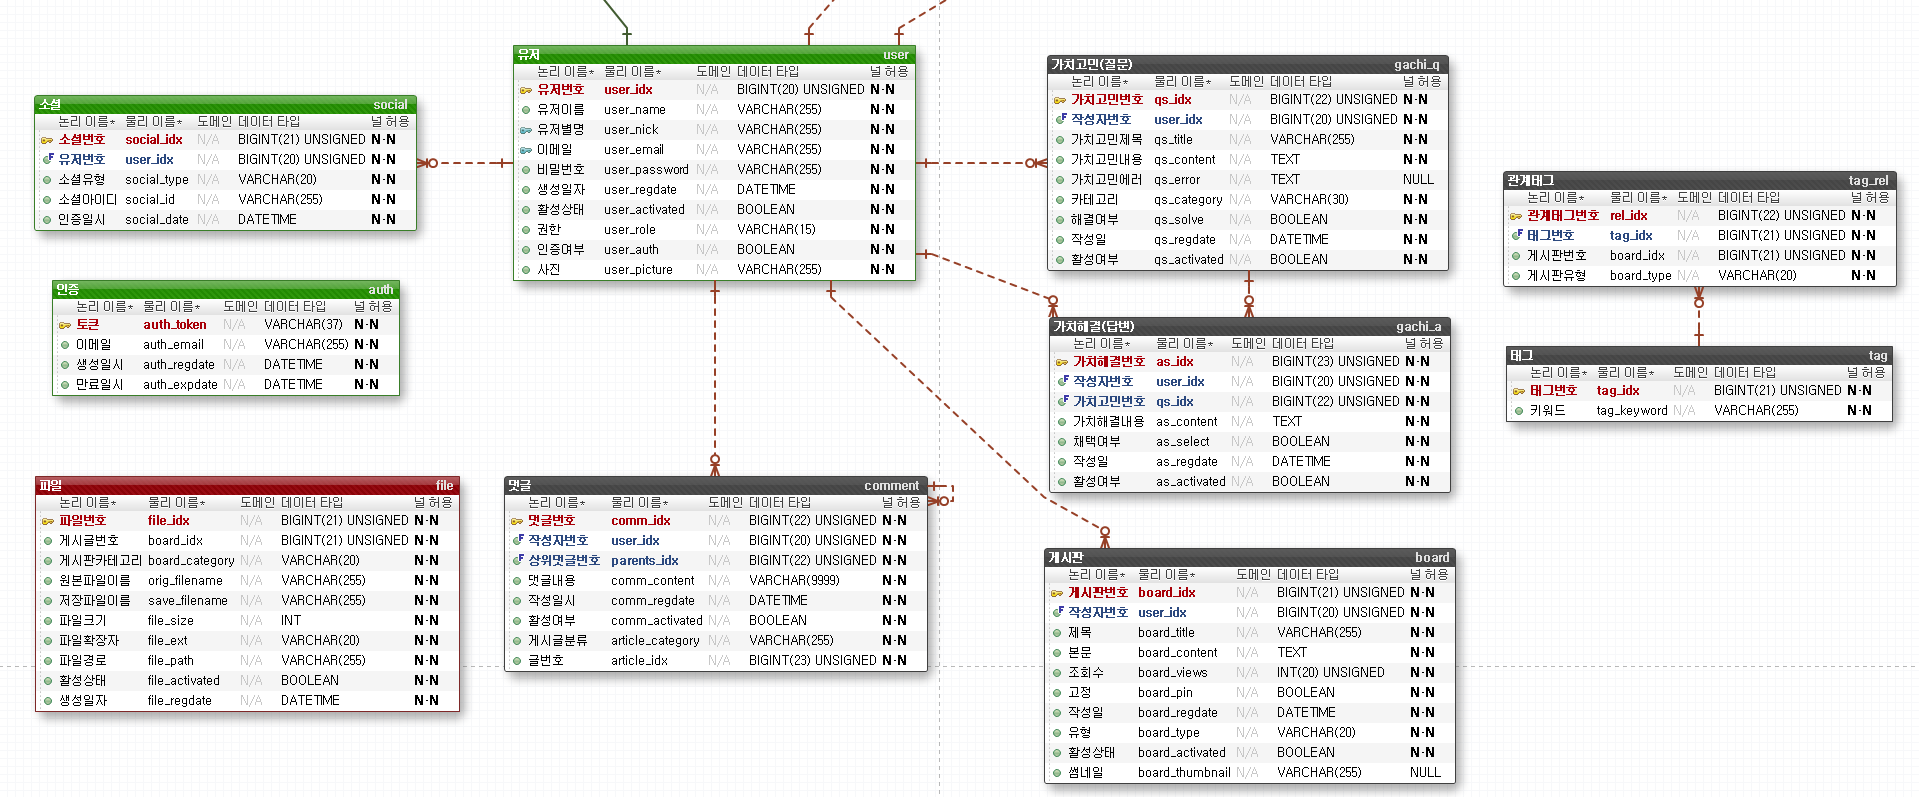
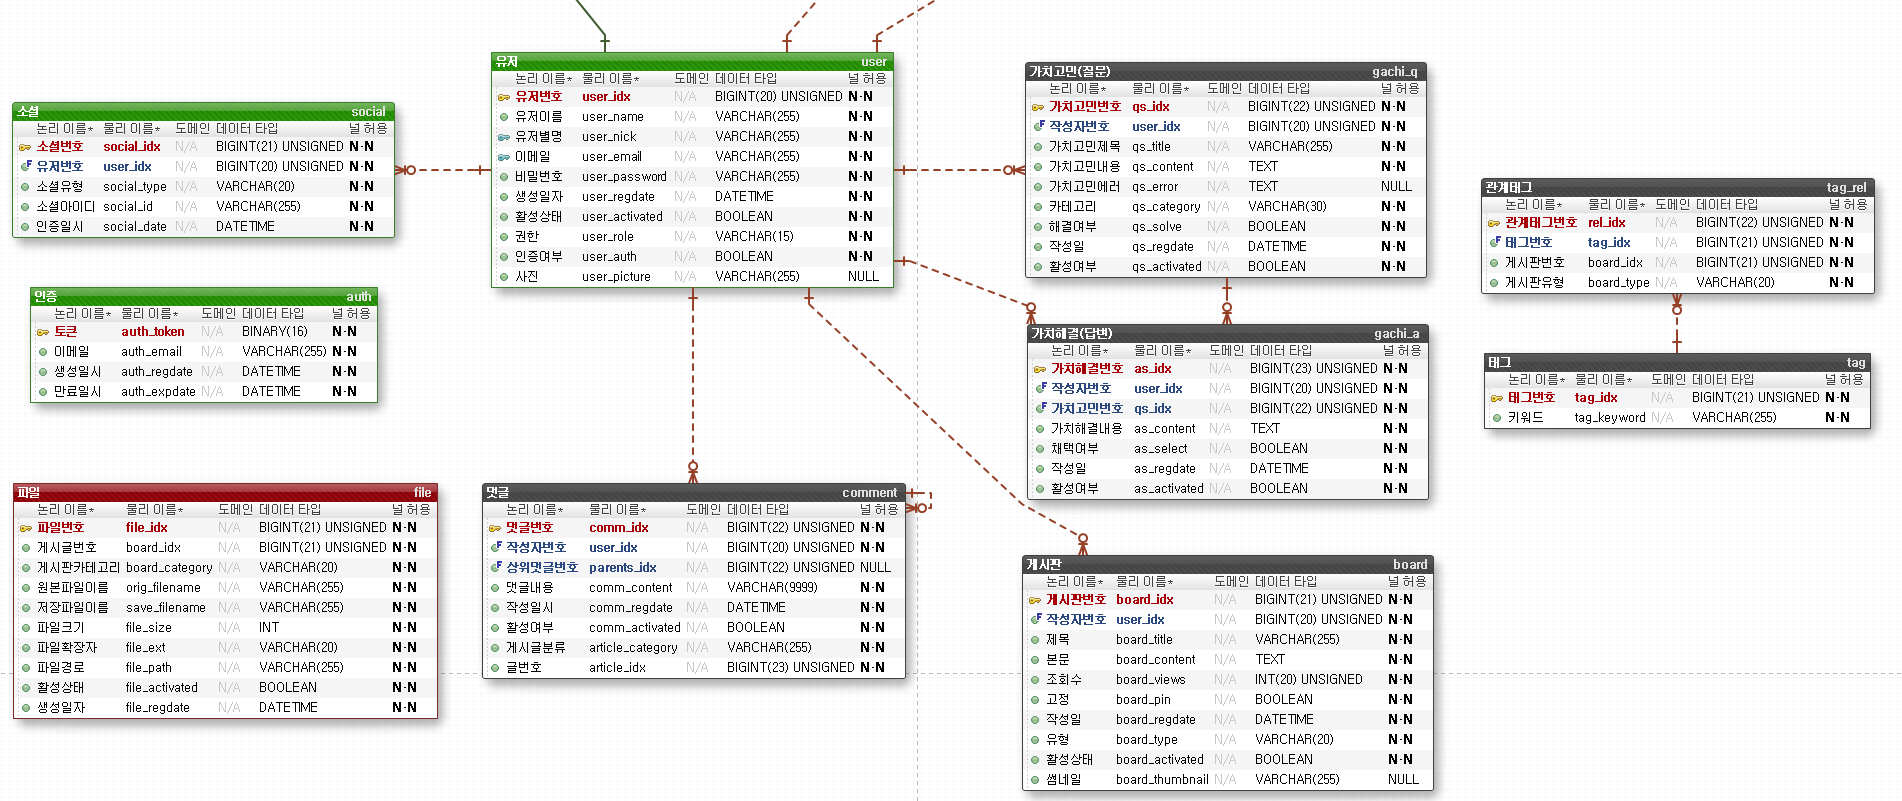
Fix(DDL) : auth 테이블 기본키 타입 변경, comment 테이블 기본키 AI 설정, parents_idx null 허용

Changed region(s): [[0.0, 0.0, 0.9926, 1.0], [0.0, 0.5721, 0.4963, 0.9034], [0.4653, 0.4818, 0.4963, 0.5119]]

diff --git a/src/main/java/org/deco/gachicoding/domain/auth/Auth.java b/src/main/java/org/deco/gachicoding/domain/auth/Auth.java
@@ -22,7 +22,7 @@ public class Auth {
     @Id
     @GeneratedValue(generator = "uuid2")
     @GenericGenerator(name = "uuid2", strategy = "uuid2")
-    @Column(length = 36)
+//    @Column(length = 36)
     private String authToken;
 
     // 일부러 FK 사용 안함
